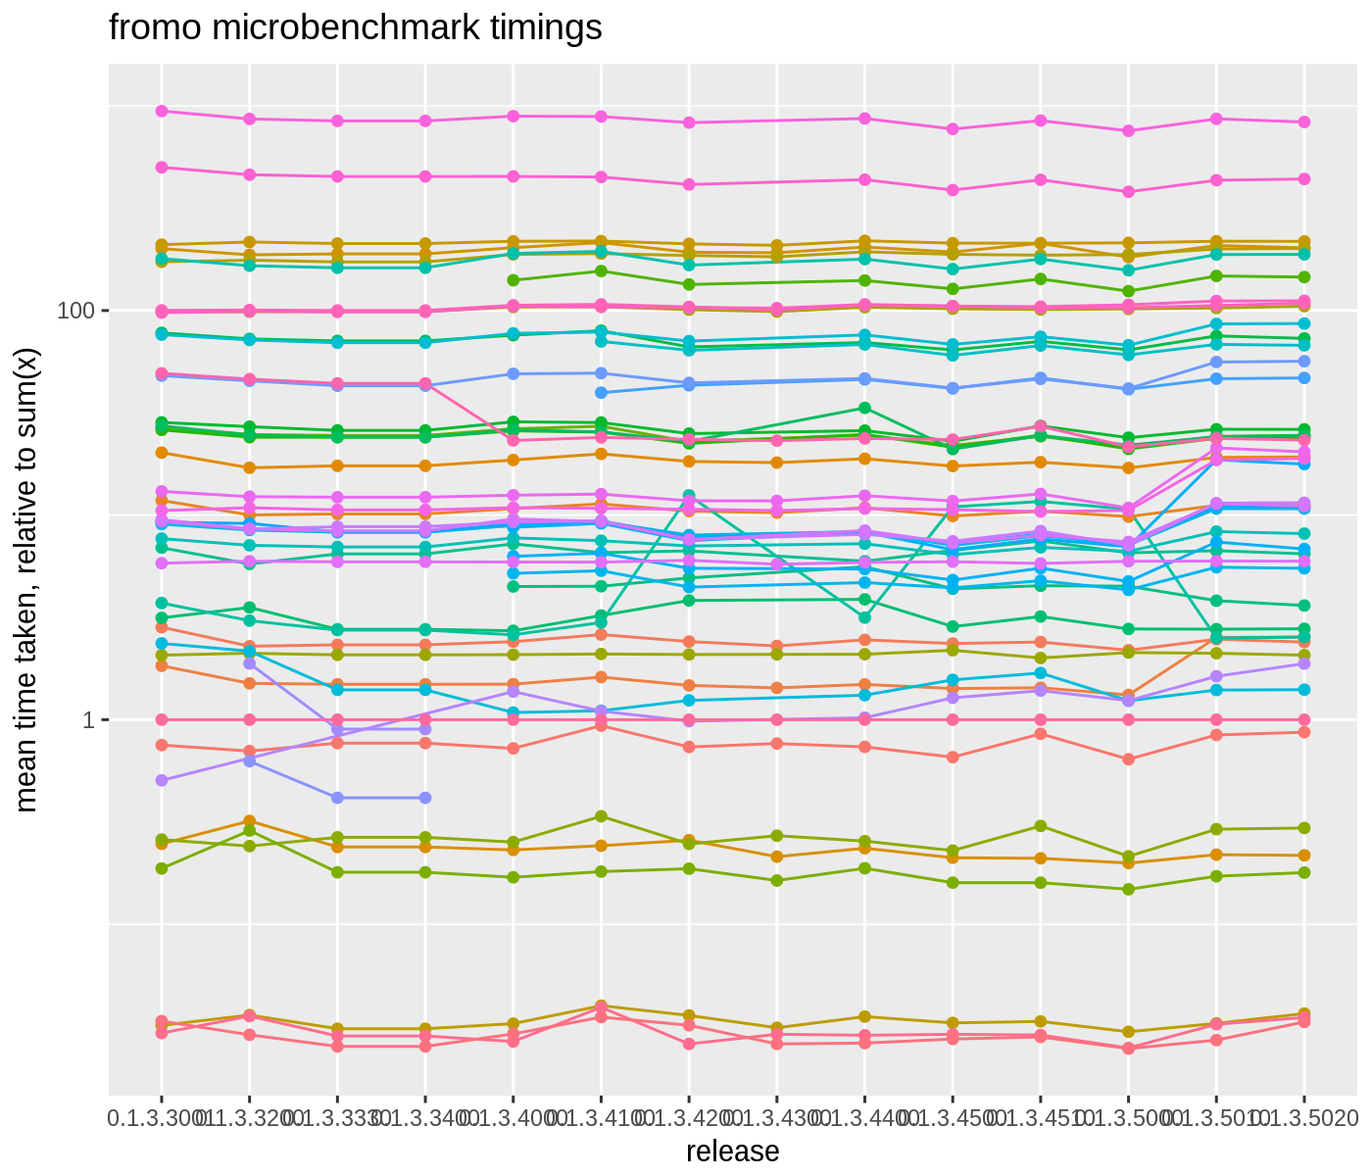
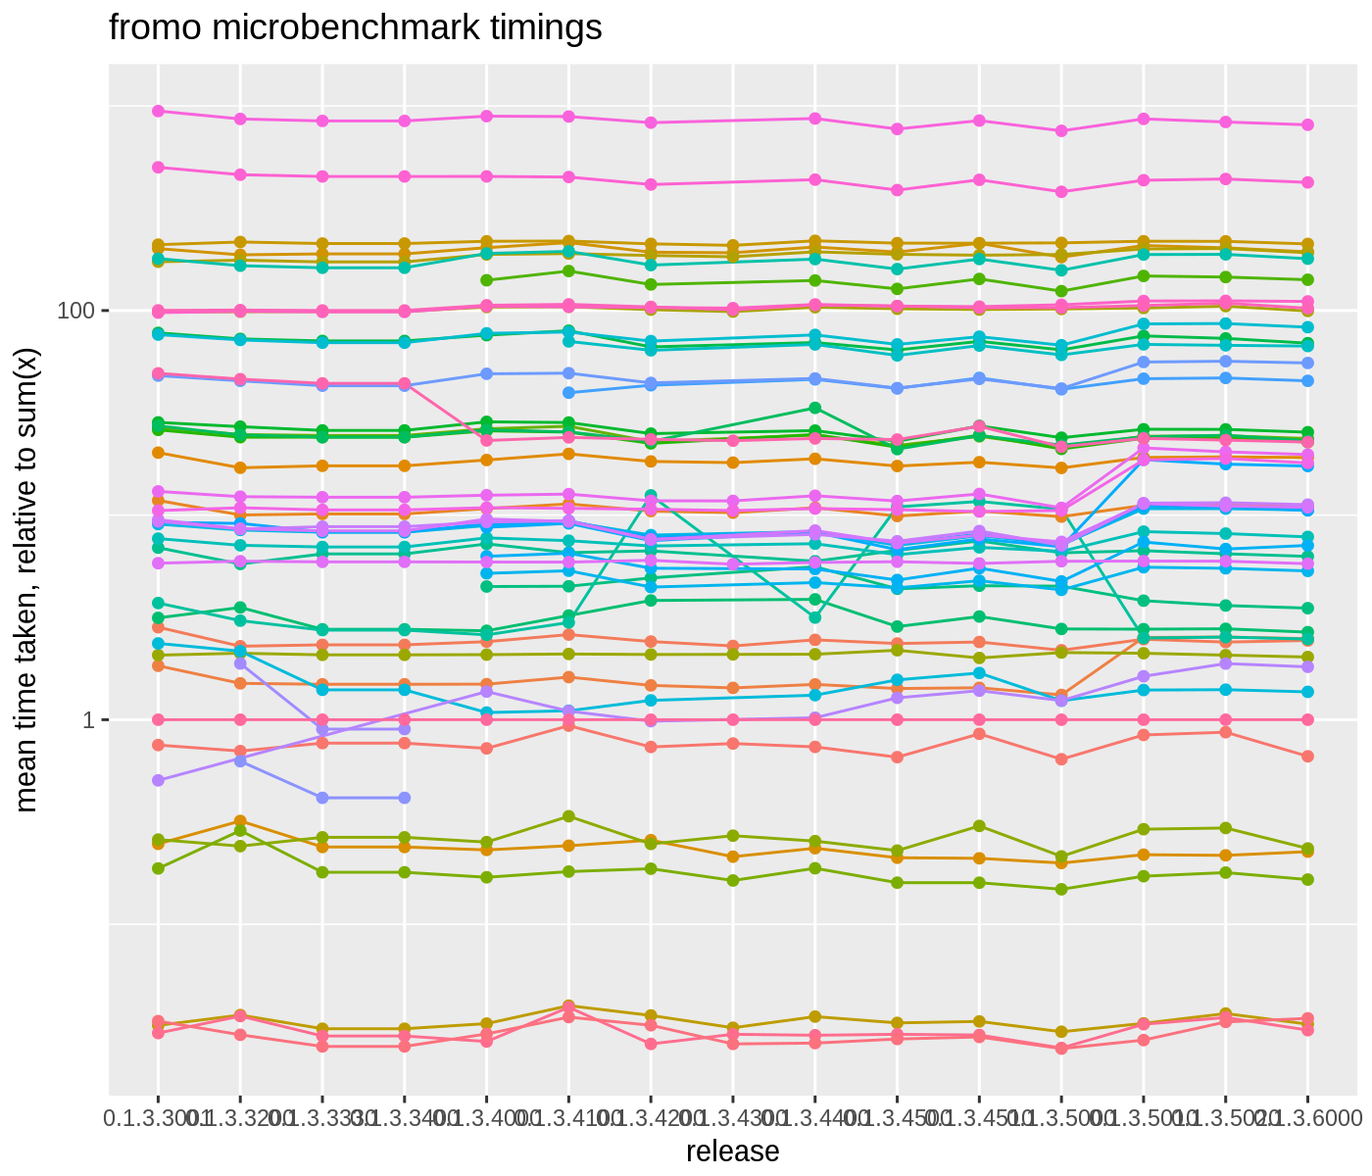
rerun timings post tag

diff --git a/nodist/timings.md b/nodist/timings.md
@@ -25,7 +25,7 @@ print(Sys.info())
 ##                                       sysname                                       release                                       version 
 ##                                       "Linux"                            "4.4.0-77-generic" "#98-Ubuntu SMP Wed Apr 26 08:34:02 UTC 2017" 
 ##                                      nodename                                       machine                                         login 
-##                                "4e4828ca9c20"                                      "x86_64"                                     "unknown" 
+##                                "9d552a41626c"                                      "x86_64"                                     "unknown" 
 ##                                          user                                effective_user 
 ##                                        "spav"                                        "spav"
 ```
@@ -49,7 +49,7 @@ print(sessionInfo())
 ## 
 ## other attached packages:
 ##  [1] RcppParallel_4.3.20    RcppRoll_0.2.2         roll_1.0.7             RollingWindow_0.2      microbenchmark_1.4-2.1 moments_0.14          
-##  [7] dplyr_0.5.0            ggplot2_2.2.1          knitr_1.15.1           fromo_0.1.3.5020      
+##  [7] dplyr_0.5.0            ggplot2_2.2.1          knitr_1.15.1           fromo_0.1.3.6000      
 ## 
 ## loaded via a namespace (and not attached):
 ##  [1] Rcpp_0.12.11     grDevices_3.3.0  assertthat_0.1   R6_2.1.2         grid_3.3.0       plyr_1.8.4       DBI_0.6-1        gtable_0.2.0     formatR_1.4     
@@ -78,15 +78,15 @@ print(checkit)
 ```
 ## Unit: microseconds
 ##         expr   min    lq  mean median    uq   max neval     cld
-##       sum(x)    79    80    82     80    81   124   100 a      
-##      mean(x)   162   163   170    164   173   304   100 ab     
-##        sd(x)   459   463   491    472   498   728   100  b     
-##  skewness(x)  8280  8351  8951   8475  9070 14532   100    de  
-##  kurtosis(x)  8103  8173  8655   8278  8821 11785   100    d   
-##       sd3(x)  1474  1479  1558   1500  1573  2907   100   c    
-##     skew4(x)  8836  8893  9186   8944  9118 12614   100     e  
-##     kurt5(x) 15806 15904 16559  16043 16929 23117   100      f 
-##     dumbk(x) 17008 17145 17944  17396 18701 23706   100       g
+##       sum(x)    80    80    87     81    88   161   100 a      
+##      mean(x)   162   164   176    166   179   320   100 ab     
+##        sd(x)   459   465   502    484   520   769   100  b     
+##  skewness(x)  8293  8345  8906   8430  9006 12650   100    d   
+##  kurtosis(x)  8105  8175  8636   8285  8794 11015   100    d   
+##       sd3(x)  1463  1472  1561   1505  1599  2867   100   c    
+##     skew4(x)  8831  8902  9613   9043  9952 16376   100     e  
+##     kurt5(x) 15789 15951 16627  16131 16737 21468   100      f 
+##     dumbk(x) 17062 17228 18366  17609 19036 22752   100       g
 ```
 
 ```r
@@ -111,9 +111,9 @@ print(checkit)
 ```
 ## Unit: milliseconds
 ##                                                                          expr  min   lq mean median   uq  max neval cld
-##  cent_moments(x, max_order = 4, wts = w, na_rm = TRUE, normalize_wts = FALSE) 16.2 16.3 16.7   16.4 16.6 20.0   100   c
-##                                                               sd3(x, wts = w)  1.6  1.6  1.7    1.7  1.7  1.8   100 a  
-##                                                                 slow_sd(x, w)  1.4  1.4  1.9    1.4  2.7  3.7   100  b
+##  cent_moments(x, max_order = 4, wts = w, na_rm = TRUE, normalize_wts = FALSE) 16.3 16.4 16.8   16.5 16.8 20.1   100   c
+##                                                               sd3(x, wts = w)  1.6  1.6  1.7    1.7  1.7  2.2   100 a  
+##                                                                 slow_sd(x, w)  1.4  1.4  2.0    1.5  2.7  4.4   100  b
 ```
 
 ```r
@@ -134,10 +134,10 @@ print(checkit)
 ```
 ## Unit: microseconds
 ##                expr  min   lq mean median   uq  max neval cld
-##  as.centsums(x1, 1)  188  190  197    191  205  238   100 a  
-##  as.centsums(x1, 2)  199  200  209    201  216  396   100 a  
-##  as.centsums(x1, 3)  895  898  924    900  972 1001   100  b 
-##  as.centsums(x1, 4) 1545 1549 1586   1553 1576 1818   100   c
+##  as.centsums(x1, 1)  194  197  212    208  221  265   100 a  
+##  as.centsums(x1, 2)  197  200  216    212  217  458   100 a  
+##  as.centsums(x1, 3)  898  904  970    976  995 1155   100  b 
+##  as.centsums(x1, 4) 1550 1556 1660   1656 1704 1978   100   c
 ```
 
 ```r
@@ -156,8 +156,8 @@ print(checkit)
 ```
 ## Unit: microseconds
 ##           expr min lq mean median uq max neval cld
-##  c(obj1, obj2)  14 15   18     16 16 180   100   a
-##  obj3 %-% obj1  11 12   15     13 13  93   100   a
+##  c(obj1, obj2)  14 15   20     16 17 190   100   b
+##  obj3 %-% obj1  11 12   14     13 13  96   100  a
 ```
 
 ```r
@@ -177,9 +177,9 @@ print(checkit)
 ```
 ## Unit: microseconds
 ##                        expr min  lq mean median  uq max neval cld
-##    join_cent_sums(rs1, rs2) 2.5 2.6  3.0    2.7 2.9  27   100   a
-##  unjoin_cent_sums(rs3, rs2) 2.3 2.5  2.7    2.6 2.7  16   100   a
-##  unjoin_cent_sums(rs3, rs1) 2.3 2.4  2.9    2.5 2.7  21   100   a
+##    join_cent_sums(rs1, rs2) 2.1 2.4  2.8    2.5 2.7  26   100   a
+##  unjoin_cent_sums(rs3, rs2) 2.0 2.2  3.0    2.3 2.4  39   100   a
+##  unjoin_cent_sums(rs3, rs1) 2.0 2.2  2.6    2.3 2.5  25   100   a
 ```
 
 ```r
@@ -211,8 +211,8 @@ print(checkit)
 ```
 ## Unit: microseconds
 ##                        expr min lq mean median uq max neval cld
-##  as.centcosums(x1, max_ord)  64 66   72     67 71 163   100   b
-##             mobj3 %-% mobj1  20 22   24     23 24  41   100  a
+##  as.centcosums(x1, max_ord)  50 52   57     54 61 150   100   b
+##             mobj3 %-% mobj1  17 18   20     19 20  57   100  a
 ```
 
 ```r
@@ -273,33 +273,33 @@ print(checkit)
 ```
 ## Unit: microseconds
 ##                                                           expr   min    lq  mean median    uq    max neval         cld
-##                         silly_fun(x, wins, sum, na.rm = FALSE) 32278 32952 36204  34718 35346 113530   100          j 
-##                        silly_fun(x, wins, mean, na.rm = FALSE) 63969 65735 68765  66866 68315 140801   100           k
-##                                           running_sum(x, wins)   104   109   155    112   126   2084   100 a          
-##                                          running_mean(x, wins)   103   108   116    111   118    169   100 a          
-##                                       roll::roll_sum(xm, wins)  1886  1919  2023   1954  2027   4421   100  bc        
-##                                      roll::roll_mean(xm, wins)  2066  2096  2163   2127  2186   2782   100   cd       
-##                                        roll::roll_sd(xm, wins)  5705  5766  6021   5822  5910  13624   100      fg    
-##       RollingWindow::RollingSum(x, wins, na_method = "ignore")   364   378   533    403   443   2676   100 a c        
-##                             RollingWindow::RollingSum(x, wins)   110   126   209    142   186   2163   100 a          
-##                            RollingWindow::RollingMean(x, wins)   139   155   229    178   220   2302   100 a          
-##                             RollingWindow::RollingStd(x, wins)   226   243   298    262   307   2511   100 ab         
-##   RcppRoll::roll_sum(xm, n = wins, align = "right", fill = NA)  1740  1924  1967   1952  1996   4183   100  bc        
-##  RcppRoll::roll_mean(xm, n = wins, align = "right", fill = NA)  1726  1891  2012   1997  2052   3842   100  bc        
-##    RcppRoll::roll_sd(xm, n = wins, align = "right", fill = NA) 10129 10460 12007  10756 12388  84982   100        h   
-##    running_sd(x, wins, na_rm = FALSE, restart_period = 50000L)   427   432   453    437   463    548   100 a c        
-##      running_sd(x, wins, na_rm = TRUE, restart_period = 1000L)   522   541   563    552   578    676   100 a c        
-##                                           running_sd3(x, wins)  1326  1356  1463   1383  1468   3489   100 a c        
-##                                          running_skew(x, wins)  3708  3719  3857   3758  3802   6140   100    de      
-##                                         running_skew4(x, wins)  4412  4494  4657   4563  4658   6498   100     ef     
-##                                          running_kurt(x, wins)  5444  5466  5569   5489  5582   6521   100     e g    
-##                                         running_kurt5(x, wins)  6760  6862  7116   6921  7058   9272   100       g    
-##                                         running_tstat(x, wins)   891   898   947    911   935   2579   100 a c        
-##                                       running_zscored(x, wins)   856   864   913    871   897   3198   100 a c        
-##                                        running_sharpe(x, wins)   852   858   902    863   887   2939   100 a c        
-##                                    running_apx_median(x, wins) 14707 14831 15502  14961 15805  20289   100         i  
-##                                      running_centered(x, wins)   620   626   669    635   667   2466   100 a c        
-##                                        running_scaled(x, wins)   851   858   886    869   893   1131   100 a c
+##                         silly_fun(x, wins, sum, na.rm = FALSE) 32348 33173 36702  34692 35335 127263   100          j 
+##                        silly_fun(x, wins, mean, na.rm = FALSE) 63717 65329 70182  67089 70223 154537   100           k
+##                                           running_sum(x, wins)   104   109   157    112   125   2128   100 ab         
+##                                          running_mean(x, wins)   103   108   119    114   124    186   100 a          
+##                                       roll::roll_sum(xm, wins)  1884  1913  2008   1943  1998   3970   100 abc        
+##                                      roll::roll_mean(xm, wins)  2072  2101  2207   2127  2214   3232   100   cd       
+##                                        roll::roll_sd(xm, wins)  5707  5760  6009   5829  5940   8137   100      fg    
+##       RollingWindow::RollingSum(x, wins, na_method = "ignore")   356   378   545    409   451   2706   100 abc        
+##                             RollingWindow::RollingSum(x, wins)   111   127   215    145   186   2157   100 ab         
+##                            RollingWindow::RollingMean(x, wins)   141   157   233    178   222   2299   100 ab         
+##                             RollingWindow::RollingStd(x, wins)   225   245   305    263   311   2541   100 abc        
+##   RcppRoll::roll_sum(xm, n = wins, align = "right", fill = NA)  1743  1799  1974   1947  2003   4037   100 abc        
+##  RcppRoll::roll_mean(xm, n = wins, align = "right", fill = NA)  1721  1818  2055   2011  2084   4209   100  b d       
+##    RcppRoll::roll_sd(xm, n = wins, align = "right", fill = NA) 10126 10618 12273  10943 12710  85925   100        h   
+##    running_sd(x, wins, na_rm = FALSE, restart_period = 50000L)   427   434   463    445   473    674   100 abc        
+##      running_sd(x, wins, na_rm = TRUE, restart_period = 1000L)   560   586   617    598   622    972   100 abc        
+##                                           running_sd3(x, wins)  1341  1384  1508   1425  1497   3493   100 abc        
+##                                          running_skew(x, wins)  3704  3734  3933   3772  3896   7481   100    de      
+##                                         running_skew4(x, wins)  4434  4501  4810   4591  4811   7425   100     ef     
+##                                          running_kurt(x, wins)  5444  5475  5818   5550  5937   8380   100     e g    
+##                                         running_kurt5(x, wins)  6795  6871  7194   6970  7100   9464   100       g    
+##                                         running_tstat(x, wins)   893   899   977    925   968   2548   100 abc        
+##                                       running_zscored(x, wins)   861   867   948    881   940   3151   100 abc        
+##                                        running_sharpe(x, wins)   856   860   916    869   905   2903   100 abc        
+##                                    running_apx_median(x, wins) 14574 14714 15553  14855 16121  22819   100         i  
+##                                      running_centered(x, wins)   619   626   679    635   664   2601   100 abc        
+##                                        running_scaled(x, wins)   858   862   920    878   928   1529   100 abc
 ```
 
 ```r
@@ -371,55 +371,55 @@ allt %>% select(-sernum, -relchange, -meantime, -sumx_time,
 
 |expr                                                                         | first_norm| last_norm| last_status|
 |:----------------------------------------------------------------------------|----------:|---------:|-----------:|
-|running_sum(x, wins)                                                         |       0.51|      1.88|        3.72|
-|running_sd3(x, wins)                                                         |       8.72|     17.75|        2.03|
-|sd3(x)                                                                       |      10.52|     18.91|        1.80|
-|sd3(x, wts = w)                                                              |      13.06|     20.37|        1.56|
-|as.centsums(x1, 2)                                                           |       1.83|      2.54|        1.38|
-|running_tstat(x, wins)                                                       |       9.32|     11.50|        1.23|
-|unjoin_cent_sums(rs3, rs1)                                                   |       0.03|      0.04|        1.19|
-|running_scaled(x, wins)                                                      |       9.03|     10.75|        1.19|
-|running_sharpe(x, wins)                                                      |       9.22|     10.94|        1.19|
-|running_skew(x, wins)                                                        |      39.66|     46.81|        1.18|
-|running_skew4(x, wins)                                                       |      48.07|     56.51|        1.18|
-|running_zscored(x, wins)                                                     |       9.49|     11.08|        1.17|
-|kurt5(x)                                                                     |     173.12|    200.94|        1.16|
-|as.centcosums(x1, max_ord)                                                   |       0.75|      0.87|        1.16|
-|join_cent_sums(rs1, rs2)                                                     |       0.03|      0.04|        1.14|
-|skew4(x)                                                                     |      97.66|    111.47|        1.14|
-|mobj3 %-% mobj1                                                              |       0.26|      0.30|        1.14|
-|running_kurt5(x, wins)                                                       |      76.25|     86.35|        1.13|
-|running_sd(x, wins, na_rm = TRUE, restart_period = 1000L)                    |       6.29|      6.83|        1.08|
-|skewness(x)                                                                  |     100.16|    108.62|        1.08|
-|kurtosis(x)                                                                  |      98.46|    105.03|        1.07|
-|running_centered(x, wins)                                                    |       7.68|      8.12|        1.06|
-|running_sd(x, wins, na_rm = FALSE, restart_period = 50000L)                  |       5.19|      5.49|        1.06|
-|running_apx_median(x, wins)                                                  |     179.28|    188.12|        1.05|
-|dumbk(x)                                                                     |     209.85|    217.76|        1.04|
-|RcppRoll::roll_sd(xm, n = wins, align = "right", fill = NA)                  |     140.59|    145.70|        1.04|
-|sd(x)                                                                        |       5.82|      5.95|        1.02|
-|cent_moments(x, max_order = 4, wts = w, na_rm = TRUE, normalize_wts = FALSE) |     200.65|    202.47|        1.01|
+|running_sum(x, wins)                                                         |       0.51|      1.81|        3.59|
+|running_sd3(x, wins)                                                         |       8.72|     17.37|        1.99|
+|sd3(x)                                                                       |      10.52|     17.98|        1.71|
+|sd3(x, wts = w)                                                              |      13.06|     19.77|        1.51|
+|as.centsums(x1, 2)                                                           |       1.83|      2.49|        1.36|
+|running_tstat(x, wins)                                                       |       9.32|     11.25|        1.21|
+|running_scaled(x, wins)                                                      |       9.03|     10.59|        1.17|
+|running_skew4(x, wins)                                                       |      48.07|     55.41|        1.15|
+|running_zscored(x, wins)                                                     |       9.49|     10.92|        1.15|
+|running_sharpe(x, wins)                                                      |       9.22|     10.55|        1.14|
+|running_skew(x, wins)                                                        |      39.66|     45.31|        1.14|
+|skew4(x)                                                                     |      97.66|    110.75|        1.13|
+|running_sd(x, wins, na_rm = TRUE, restart_period = 1000L)                    |       6.29|      7.11|        1.13|
+|kurt5(x)                                                                     |     173.12|    191.56|        1.11|
+|running_kurt5(x, wins)                                                       |      76.25|     82.88|        1.09|
+|unjoin_cent_sums(rs3, rs1)                                                   |       0.03|      0.03|        1.03|
+|unjoin_cent_sums(rs3, rs2)                                                   |       0.03|      0.03|        1.03|
+|running_sd(x, wins, na_rm = FALSE, restart_period = 50000L)                  |       5.19|      5.34|        1.03|
+|skewness(x)                                                                  |     100.16|    102.60|        1.02|
+|running_centered(x, wins)                                                    |       7.68|      7.83|        1.02|
+|join_cent_sums(rs1, rs2)                                                     |       0.03|      0.03|        1.01|
+|kurtosis(x)                                                                  |      98.46|     99.50|        1.01|
+|dumbk(x)                                                                     |     209.85|    211.59|        1.01|
+|RcppRoll::roll_sd(xm, n = wins, align = "right", fill = NA)                  |     140.59|    141.39|        1.01|
 |sum(x)                                                                       |       1.00|      1.00|        1.00|
-|mean(x)                                                                      |       2.07|      2.07|        1.00|
-|unjoin_cent_sums(rs3, rs2)                                                   |       0.03|      0.03|        0.99|
-|running_kurt(x, wins)                                                        |      70.61|     67.58|        0.96|
-|obj3 %-% obj1                                                                |       0.19|      0.18|        0.95|
-|as.centsums(x1, 4)                                                           |      20.20|     19.25|        0.95|
-|as.centsums(x1, 3)                                                           |      11.79|     11.21|        0.95|
-|roll::roll_sd(xm, wins)                                                      |      77.75|     73.07|        0.94|
-|RollingWindow::RollingSum(x, wins, na_method = "ignore")                     |       6.93|      6.47|        0.93|
-|roll::roll_mean(xm, wins)                                                    |      28.39|     26.24|        0.92|
-|RcppRoll::roll_sum(xm, n = wins, align = "right", fill = NA)                 |      26.10|     23.86|        0.91|
-|RcppRoll::roll_mean(xm, n = wins, align = "right", fill = NA)                |      26.80|     24.41|        0.91|
-|roll::roll_sum(xm, wins)                                                     |      27.28|     24.55|        0.90|
-|silly_fun(x, wins, mean, na.rm = FALSE)                                      |     943.85|    834.48|        0.88|
-|RollingWindow::RollingMean(x, wins)                                          |       3.15|      2.78|        0.88|
-|c(obj1, obj2)                                                                |       0.25|      0.22|        0.88|
-|silly_fun(x, wins, sum, na.rm = FALSE)                                       |     501.06|    439.34|        0.88|
-|as.centsums(x1, 1)                                                           |       2.83|      2.40|        0.85|
-|RollingWindow::RollingStd(x, wins)                                           |       4.48|      3.62|        0.81|
-|RollingWindow::RollingSum(x, wins)                                           |       3.72|      2.53|        0.68|
+|running_apx_median(x, wins)                                                  |     179.28|    179.19|        1.00|
+|sd(x)                                                                        |       5.82|      5.79|        0.99|
+|mean(x)                                                                      |       2.07|      2.02|        0.98|
+|cent_moments(x, max_order = 4, wts = w, na_rm = TRUE, normalize_wts = FALSE) |     200.65|    193.53|        0.96|
+|running_kurt(x, wins)                                                        |      70.61|     67.02|        0.95|
+|as.centsums(x1, 3)                                                           |      11.79|     11.17|        0.95|
+|as.centsums(x1, 4)                                                           |      20.20|     19.13|        0.95|
+|c(obj1, obj2)                                                                |       0.25|      0.23|        0.92|
+|RollingWindow::RollingSum(x, wins, na_method = "ignore")                     |       6.93|      6.28|        0.91|
+|mobj3 %-% mobj1                                                              |       0.26|      0.23|        0.90|
+|roll::roll_mean(xm, wins)                                                    |      28.39|     25.42|        0.90|
+|roll::roll_sd(xm, wins)                                                      |      77.75|     69.23|        0.89|
+|RcppRoll::roll_mean(xm, n = wins, align = "right", fill = NA)                |      26.80|     23.67|        0.88|
+|obj3 %-% obj1                                                                |       0.19|      0.17|        0.88|
+|as.centcosums(x1, max_ord)                                                   |       0.75|      0.66|        0.88|
+|RcppRoll::roll_sum(xm, n = wins, align = "right", fill = NA)                 |      26.10|     22.74|        0.87|
+|as.centsums(x1, 1)                                                           |       2.83|      2.44|        0.86|
+|silly_fun(x, wins, mean, na.rm = FALSE)                                      |     943.85|    808.56|        0.86|
+|RollingWindow::RollingMean(x, wins)                                          |       3.15|      2.68|        0.85|
+|roll::roll_sum(xm, wins)                                                     |      27.28|     23.13|        0.85|
+|silly_fun(x, wins, sum, na.rm = FALSE)                                       |     501.06|    422.84|        0.84|
+|RollingWindow::RollingStd(x, wins)                                           |       4.48|      3.51|        0.78|
+|RollingWindow::RollingSum(x, wins)                                           |       3.72|      2.48|        0.67|
 |running_sum(x, wins, robust = FALSE)                                         |       0.63|      0.42|        0.66|
-|running_mean(x, wins)                                                        |       2.36|      1.40|        0.59|
+|running_mean(x, wins)                                                        |       2.36|      1.37|        0.58|
 
 
